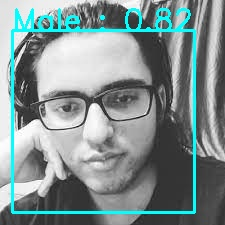
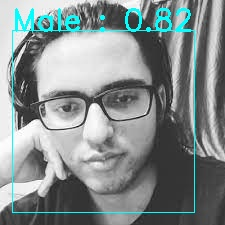
created db for gender
using ML model (gender classification) and storing it in db to retrieve and display in app after user upload profile image.

Changed region(s): [[0.0311, 0.1244, 0.8711, 0.9644], [0.7467, 0.1244, 0.7778, 0.1556]]

diff --git a/Project/Website/Final_Project/companyblog/templates/gender.html b/Project/Website/Final_Project/companyblog/templates/gender.html
@@ -24,6 +24,9 @@
         <div class="col-md-6" id="predict">
             <img src="{{url_for('static',filename='predict/')}}{{img_name}}"alt ="freeai" width="{{ w }}" height="300">            
         </div>
+        <div class="col-md-6" id="predict">
+            <h2>{{gender}}</h2>
+        </div>
     </div>
 </div>
 

diff --git a/Project/Website/Final_Project/companyblog/templates/account.html b/Project/Website/Final_Project/companyblog/templates/account.html
@@ -6,6 +6,7 @@
     <h1 >Welcome to the page for {{current_user.username}}</h1>
     <img align='center' src="{{ url_for('static', filename='profile_pics/' + current_user.profile_image) }}">
     <p>{{ current_user.email }}</p>
+    <p>{{gender}}</p>
   </div>
 </div>
 <div class="container">

diff --git a/Project/Website/Final_Project/companyblog/users/views.py b/Project/Website/Final_Project/companyblog/users/views.py
@@ -8,10 +8,12 @@ from companyblog.users.picture_handler import add_profile_pic
 import os
 from PIL import Image
 from companyblog.users.utils import pipeline_model
+import cv2
 
 users = Blueprint('users', __name__)
 
 UPLOAD_FOLDER = 'static/uploads'
+UPLOAD_FOLDER2 = 'static/profile_pics'
 
 @users.route('/register', methods=['GET', 'POST'])
 def register():
@@ -79,7 +81,15 @@ def account():
             username = current_user.username
             pic = add_profile_pic(form.picture.data,username)
             current_user.profile_image = pic
-
+            path = os.path.join(current_app.root_path,UPLOAD_FOLDER2,current_user.profile_image)
+            img, gender = pipeline_model(path,filename=current_user.profile_image,color='bgr')
+            gender_pre = ['Male','Female']
+            gender = gender_pre[gender]
+            current_user.gender = gender
+            db.session.commit()
+            return render_template('account.html', form=form, gender = gender)
+           
+        
         current_user.username = form.username.data
         current_user.email = form.email.data
         db.session.commit()
@@ -91,7 +101,8 @@ def account():
         form.email.data = current_user.email
 
     profile_image = url_for('static', filename='profile_pics/' + current_user.profile_image)
-    return render_template('account.html', profile_image=profile_image, form=form)
+    
+    return render_template('account.html', profile_image=profile_image, form=form,gender=current_user.gender)
 
 
 @users.route("/<username>")
@@ -119,7 +130,11 @@ def gender():
         # processing
         w = getwidth(path)
         # prediction (pass to pipeline model)
-        pipeline_model(path,filename=filename,color='bgr')
-        return render_template('gender.html',fileupload=True,img_name=filename,w=w)
+        img, gender = pipeline_model(path,filename=filename,color='bgr')
+        gender_pre = ['Male','Female']
+        gender = gender_pre[gender]
+        path = os.path.join(current_app.root_path,'static/predict/{}'.format(filename))
+        cv2.imwrite(path,img)
+        return render_template('gender.html',fileupload=True,img_name=filename,w=w, gender=gender)
 
     return render_template('gender.html',fileupload=False,img_name="freeai.png",w="300")

diff --git a/Project/Website/Final_Project/companyblog/users/utils.py b/Project/Website/Final_Project/companyblog/users/utils.py
@@ -36,7 +36,7 @@ def pipeline_model(path,filename, color='bgr'):
     # step-3: crop the face (using haar cascade classifier)
     faces = haar.detectMultiScale(gray,1.5,3)
     for x,y,w,h in faces:
-        cv2.rectangle(img,(x,y),(x+w,y+h),(255,255,0),2) #drawing rectangle
+        cv2.rectangle(img,(x,y),(x+w,y+h),(255,255,0),1) #drawing rectangle
         roi = gray[y:y+h,x:x+w] #crop image
         # step 4: normalization
         roi = roi / 255.0
@@ -65,7 +65,8 @@ def pipeline_model(path,filename, color='bgr'):
         # step-11:
         text = "%s : %0.2f"%(gender_pre[predict],score)
         cv2.putText(img,text,(x,y),font,1,(255,255,0),2)
-    path = os.path.join(current_app.root_path,'static/predict/{}'.format(filename))
-    cv2.imwrite(path,img)
+    # path = os.path.join(current_app.root_path,'static/predict/{}'.format(filename))
+    # cv2.imwrite(path,img)
+    return img,predict
     
         

diff --git a/Project/Website/Final_Project/companyblog/models.py b/Project/Website/Final_Project/companyblog/models.py
@@ -1,3 +1,4 @@
+from sqlalchemy.sql.expression import null
 from companyblog import db,login_manager
 from datetime import datetime
 from werkzeug.security import generate_password_hash,check_password_hash
@@ -24,6 +25,7 @@ class User(db.Model, UserMixin):
 
     id = db.Column(db.Integer, primary_key = True)
     profile_image = db.Column(db.String(20), nullable=False, default='default_profile.png')
+    gender = db.Column(db.String(20),nullable=True, default='None')
     email = db.Column(db.String(64), unique=True, index=True)
     username = db.Column(db.String(64), unique=True, index=True)
     password_hash = db.Column(db.String(128))

diff --git a/Project/Website/Final_Project/migrations/versions/c83a14b1b9a0_initial_setup.py b/Project/Website/Final_Project/migrations/versions/c83a14b1b9a0_initial_setup.py
@@ -21,6 +21,7 @@ def upgrade():
     op.create_table('users',
     sa.Column('id', sa.Integer(), nullable=False),
     sa.Column('profile_image', sa.String(length=20), nullable=False),
+    sa.Column('gender',sa.String(length=20),nullable=True),
     sa.Column('email', sa.String(length=64), nullable=True),
     sa.Column('username', sa.String(length=64), nullable=True),
     sa.Column('password_hash', sa.String(length=128), nullable=True),

diff --git a/Project/Website/Final_Project/companyblog/users/forms.py b/Project/Website/Final_Project/companyblog/users/forms.py
@@ -40,6 +40,7 @@ class UpdateUserForm(FlaskForm):
     email = StringField('Email', validators=[DataRequired(),Email()])
     username = StringField('Username', validators=[DataRequired()])
     picture = FileField('Update Profile Picture', validators=[FileAllowed(['jpg', 'png'])])
+    gender = StringField('gender')
     submit = SubmitField('Update')
 
     def check_email(self, field):
